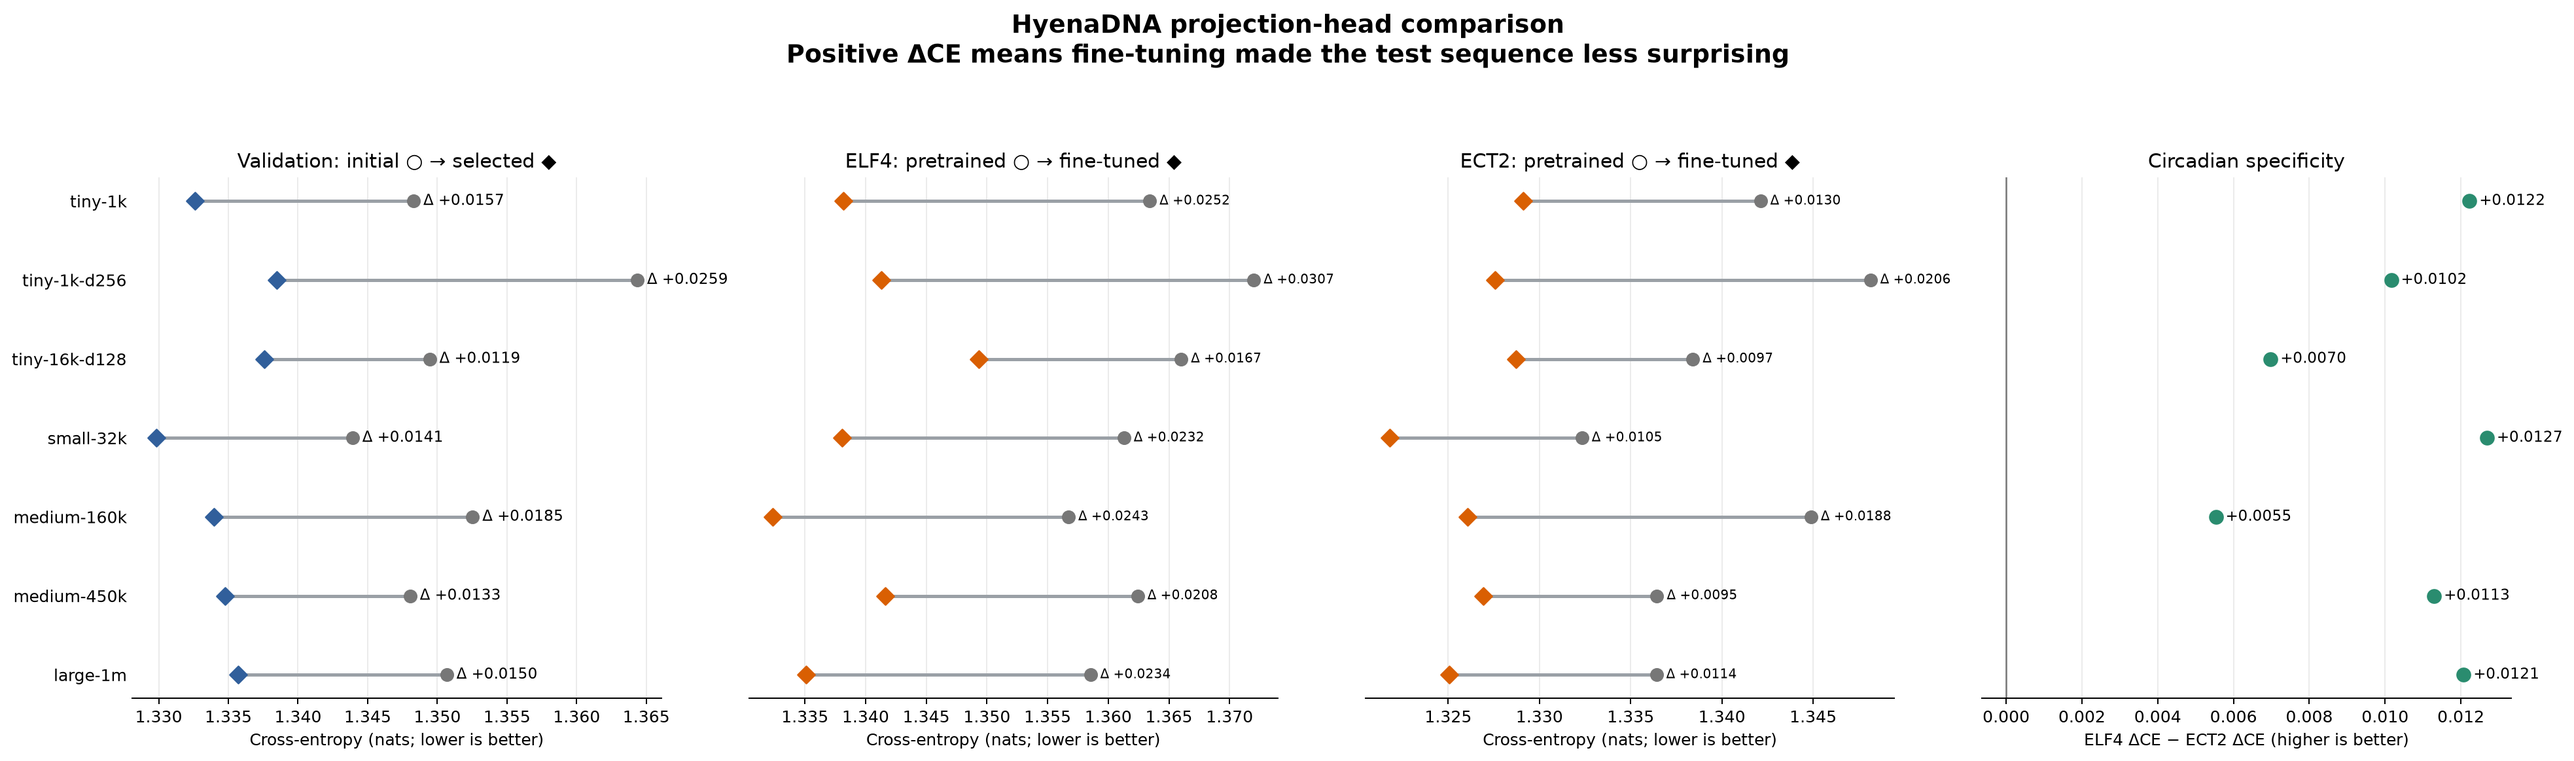
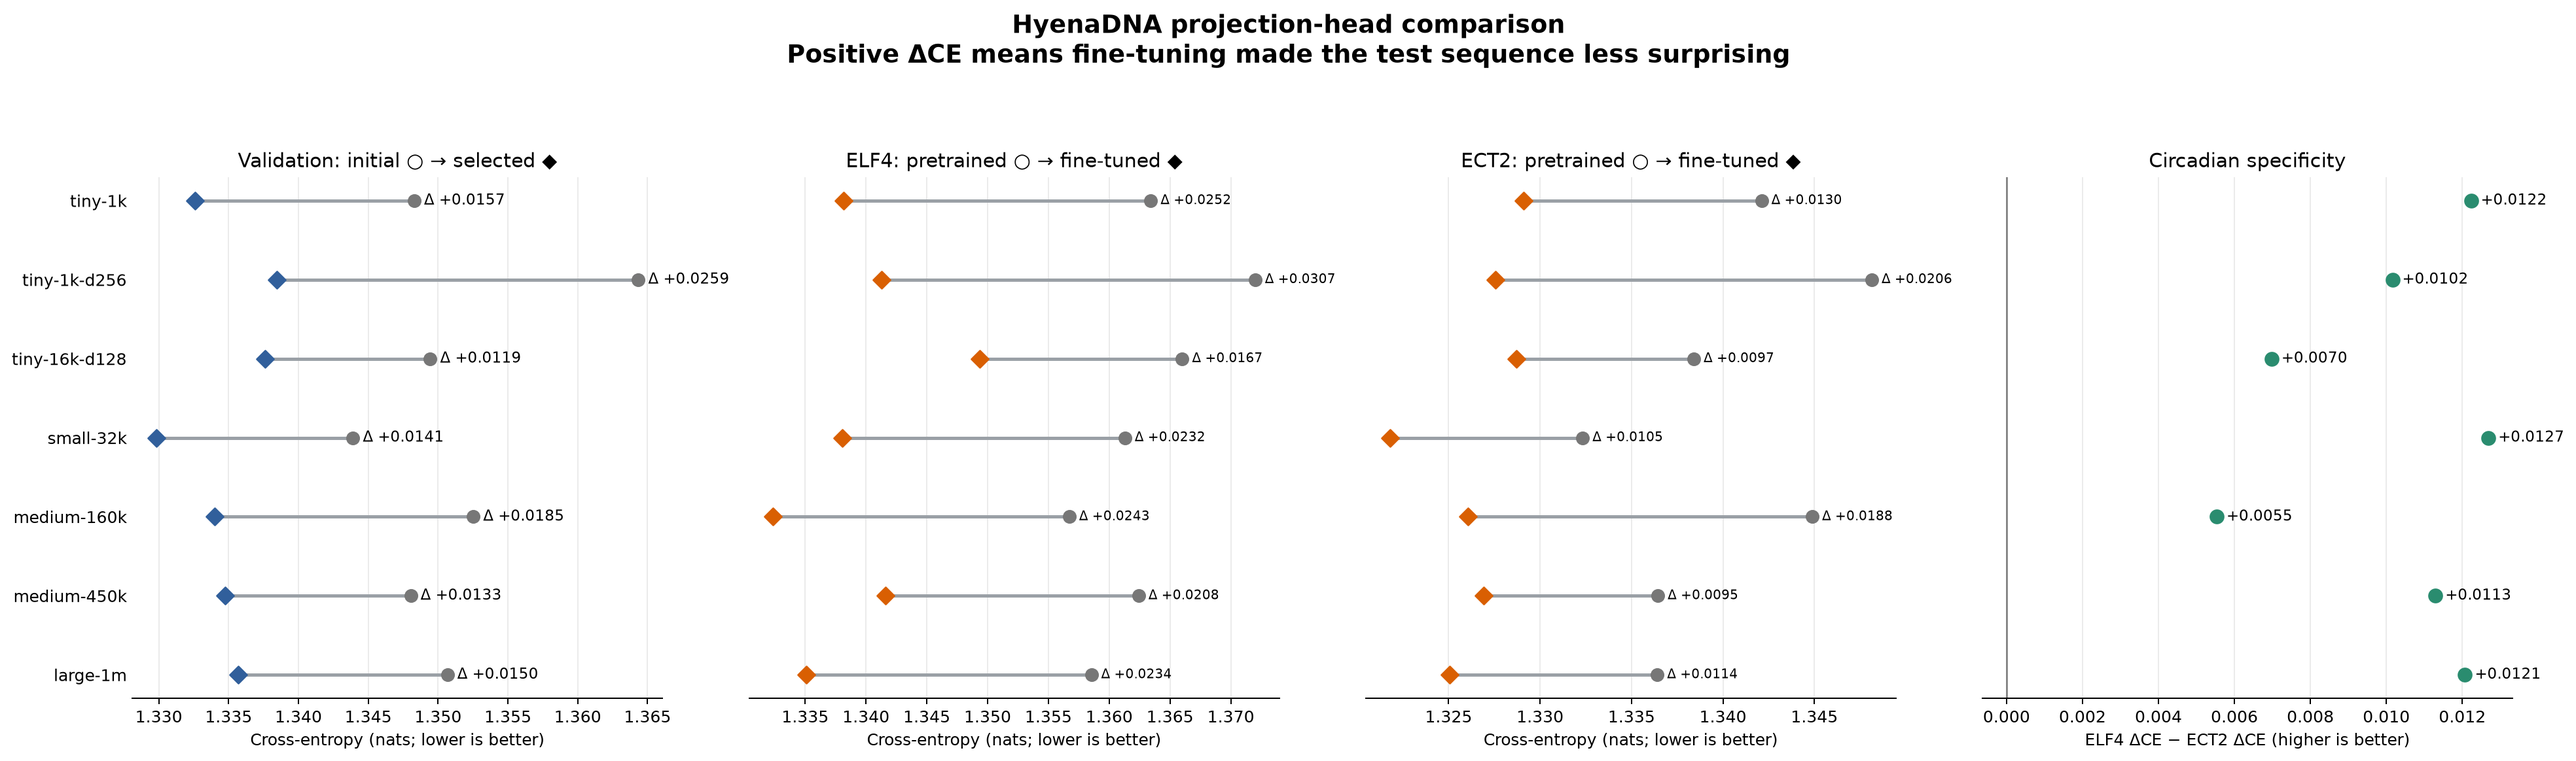
training/[compare_hyenadna_models, study/models/hyenadna_model_comparison] | adjusting paths

diff --git a/training/compare_hyenadna_models.py b/training/compare_hyenadna_models.py
@@ -13,10 +13,10 @@ import numpy as np
 
 from hyenadna_models import HYENADNA_MODEL_REVISIONS
 
-DEFAULT_RUNS_DIR = Path("runs")
-DEFAULT_PLOT = Path("data/xent/hyenadna_model_comparison.png")
-DEFAULT_CSV = Path("runs/hyenadna_model_metrics.csv")
-DEFAULT_MARKDOWN = Path("runs/hyenadna_model_metrics.md")
+DEFAULT_RUNS_DIR = Path("training/runs")
+DEFAULT_PLOT = Path("training/study/models/hyenadna_model_comparison.png")
+DEFAULT_CSV = Path("training/runs/hyenadna_model_metrics.csv")
+DEFAULT_MARKDOWN = Path("training/runs/hyenadna_model_metrics.md")
 PREFERRED_GENES = ("ELF4", "ECT2")
 
 
